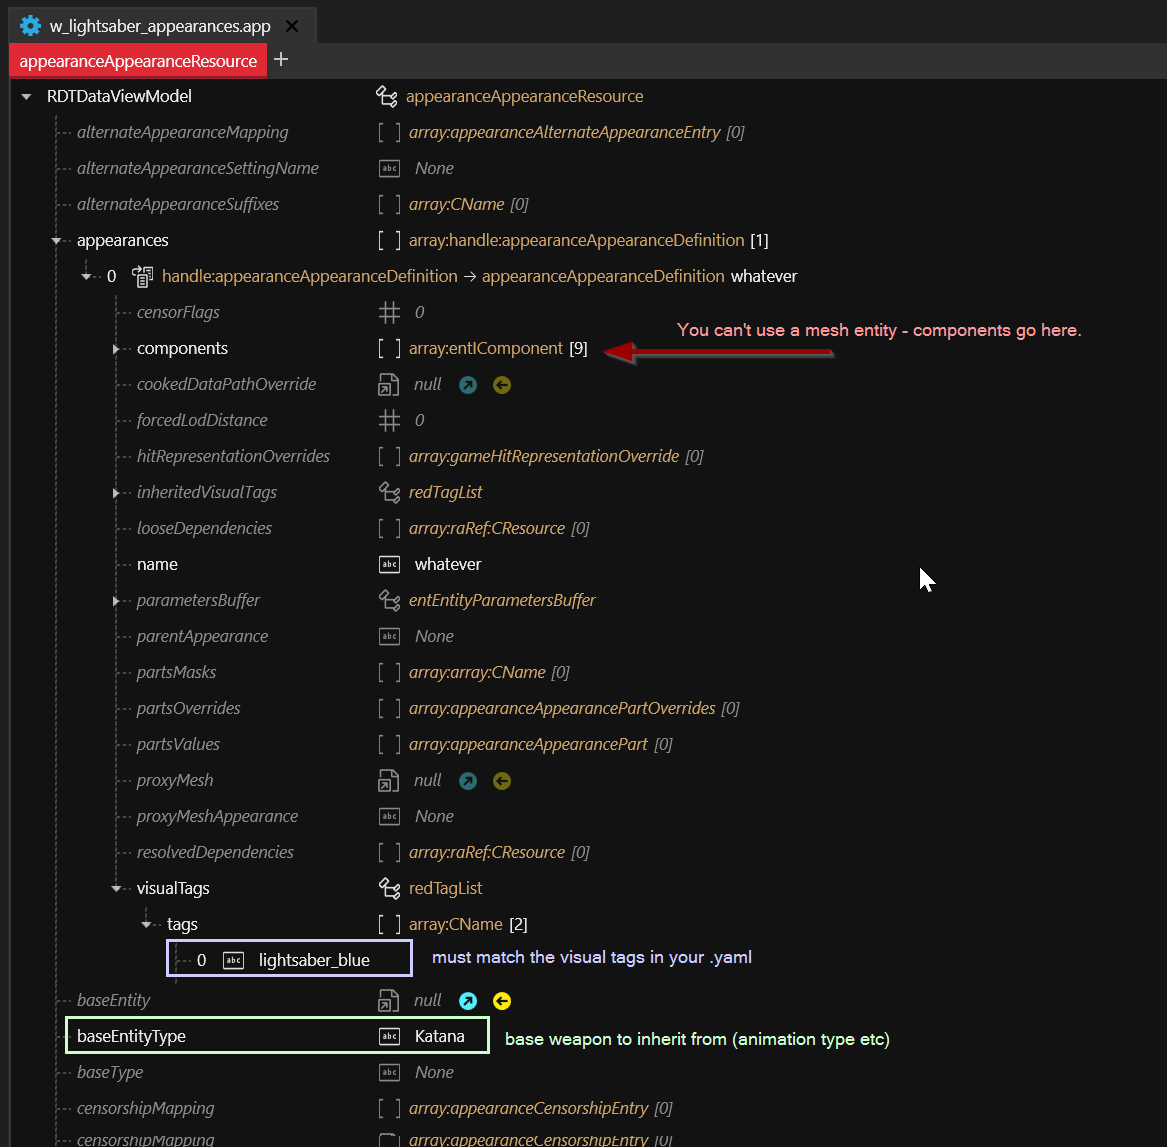
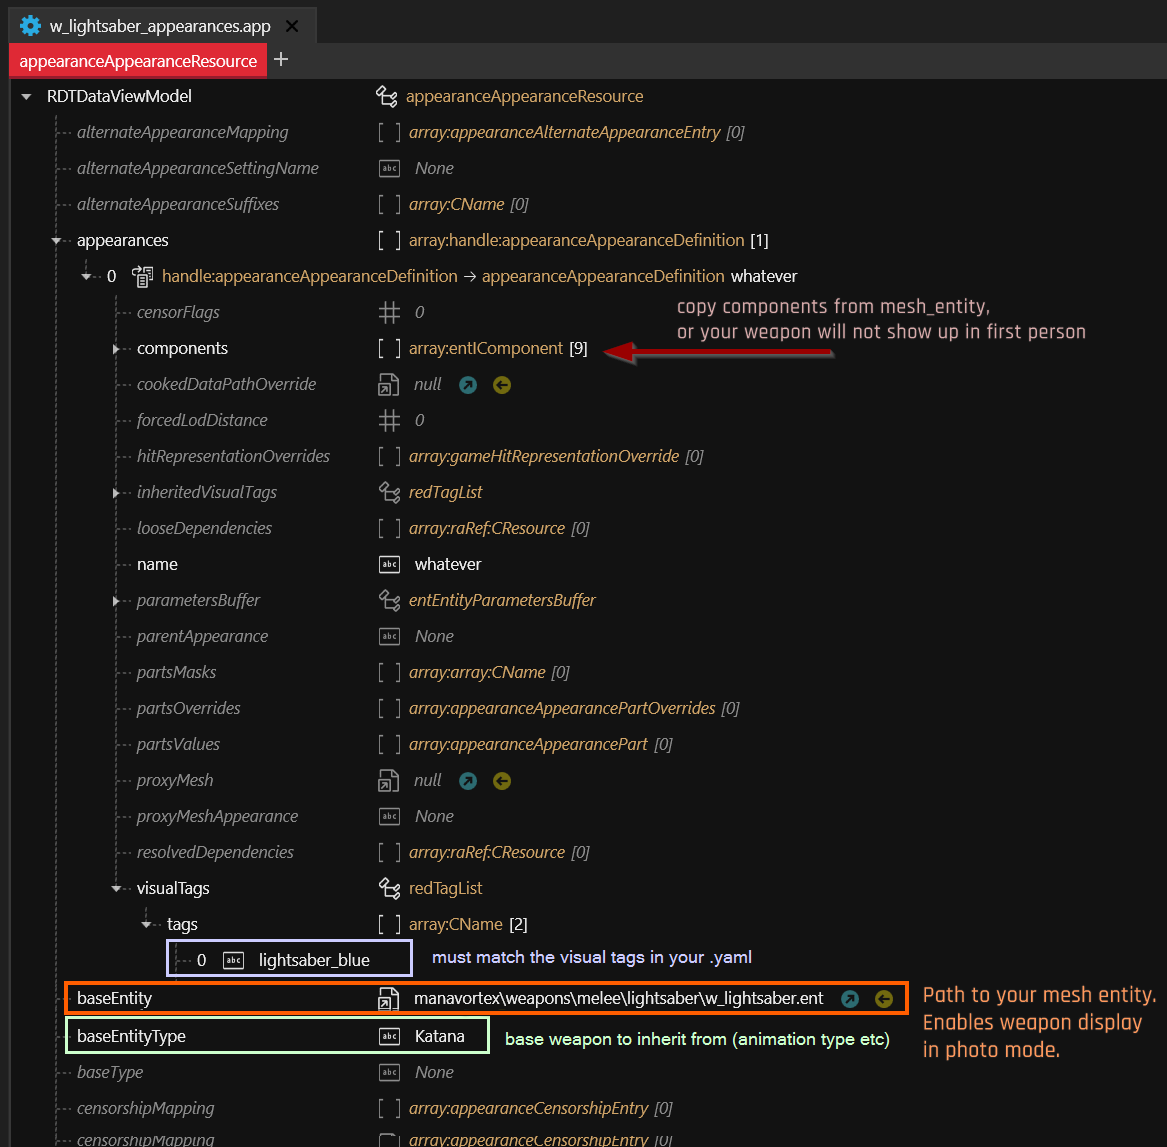
GITBOOK-478: weapons do neet a mesh_entity!

Changed region(s): [[0.0308, 0.8544, 0.9871, 0.9154], [0.5861, 0.2441, 0.9254, 0.3051], [0.7712, 0.4882, 0.8021, 0.5187]]

diff --git a/for-mod-creators/modding-guides/items-equipment/adding-new-items/weapons.md b/for-mod-creators/modding-guides/items-equipment/adding-new-items/weapons.md
@@ -23,6 +23,12 @@ In the app file, you can also find the value for the yaml file's `$base` propert
 
 <figure><img src="../../../../.gitbook/assets/archivexl_weapons_basetype.png" alt=""><figcaption></figcaption></figure>
 
+## Getting the mesh\_entity.ent
+
+You need the correct mesh entity to go with your appearance file. You can find them under `base\weapons`\ - search for the name of your weapon, or just navigate through the folders.&#x20;
+
+This file makes the weapon show up in photo mode. Instead of going into the PartsValues, it will be linked in the app file's root as `baseEntity` (there's a screenshot below). Leave it alone for now, it's easier to make the appearances working correctly in the .app file and then copying over an entire component array.
+
 ## Factory: .app instead of root\_entity
 
 Instead of a root entity file, you need to point your factory.csv directly to your iron's app file (the one from the section above).
@@ -54,17 +60,20 @@ Unlike with an entity file, the appearance name doesn't matter. You can name all
 As the process of this is finicky and there can be all sorts of sudden unexpected behaviour, here's the best way to go about this:
 
 1. Find the .app file of a suitable base weapon, add it to your project, and rename it. Don't change anything for now,  future you might need them for testing.
-2. Configure the yaml as described above
-3. Set up **one** (1) appearance for testing by assigning the correct visual tags. Do not delete the other appearances yet while you make sure that the one you selected
+2. Find the correct .ent file under `base\weapons`\ . The number of components should be the same as in any appearance's component array (red arrow on the screenshot above)
+3. Configure the yaml as described [above](weapons.md#define-the-field-in-the-yaml)
+4. Set up **one** (1) appearance for testing by assigning the correct visual tags. Do not delete the other appearances yet while you make sure that the one you selected
    1. shows up in inventory/photo mode
    2. shows up in first person
-4.  Change the path and appearance of any mesh components to those of your new mesh. Make sure that it
+5.  Change the path and appearance of any mesh components to those of your new mesh. Make sure that it
 
-    1. shows up in inventory/photo mode
-    2. shows up in first person
-    3. is in the right position where V's hands are concerned (~~at least as much as for the Tactician shotgun~~)
+    1. shows up in your inventory with your meshes
+    2. shows up in first person with your meshes
+    3. shows up in photo mode at all (it shouldn't be invisible, but will still have the default appearance)
     4. all parts are visible
-    5. the correct mesh appearance is displayed.
+    5. is in the right position where V's hands are concerned (~~at least as much as for the Tactician shotgun~~)
+    6. the correct mesh appearance is displayed.
 
     Fix any issues that might arise. Don't forget that you can split off individual meshes for individual pieces, too.
-5. Once everything works, delete all other appearances, then duplicate and adjust the one you customized to show your color variants.
+6. Once everything works, delete all other appearances, then duplicate and adjust the one you customized to show your color variants.
+7. Now, finally, copy a working appearance from the .app file to your mesh entity (which you have linked in the app file's root as `baseEntity`). This will make your weapon show up in photo mode.
